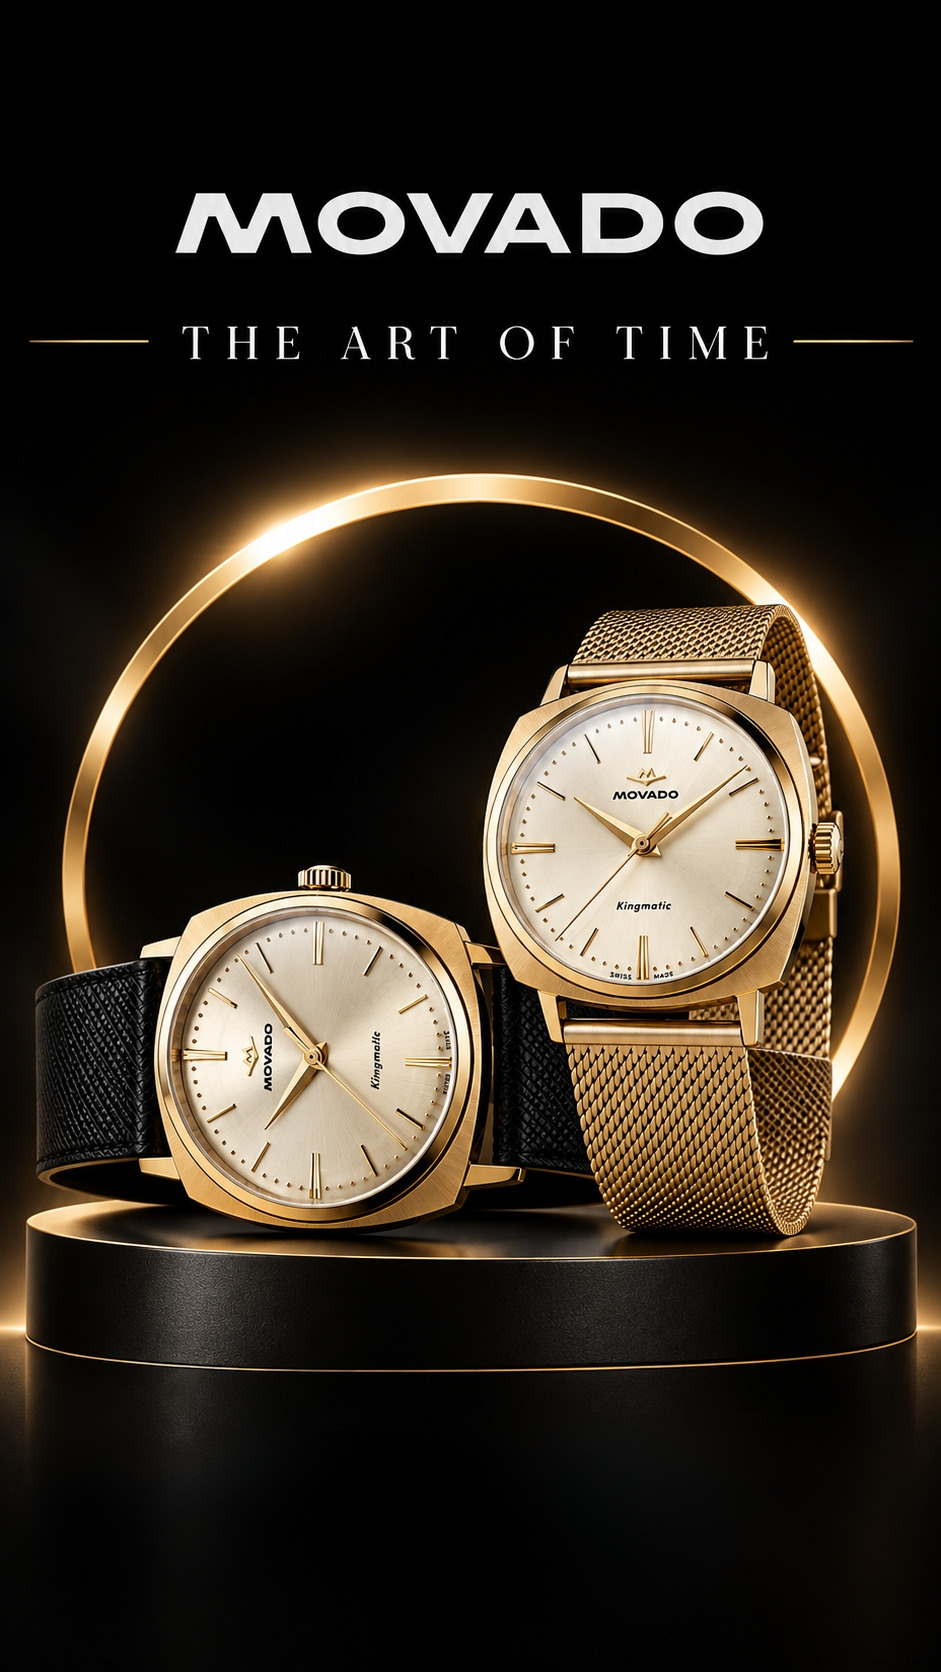
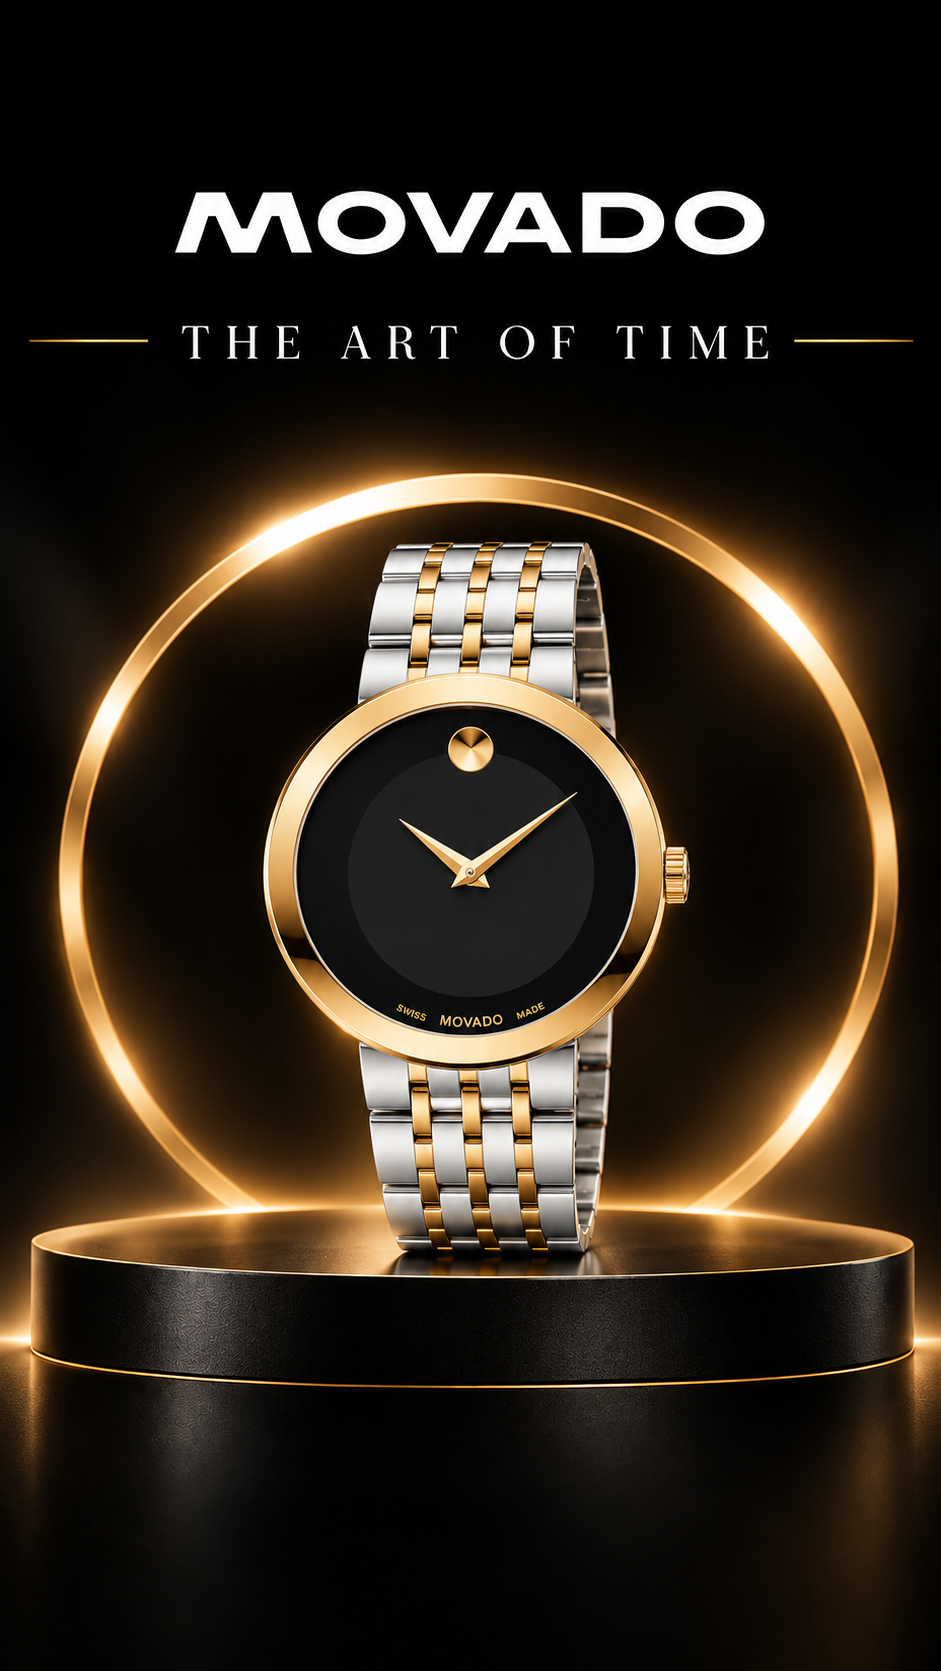
e

diff --git a/src/Component/Home/Herosection.jsx b/src/Component/Home/Herosection.jsx
@@ -12,7 +12,7 @@ import "swiper/css/effect-fade";
 // they are written out as strings.
 import banner1Web from "../../assets/Banner 1 v1.png";
 import banner1Mobile from "../../assets/Banner mobile layout v2.jpg.png";
-import movadoWeb from '../../assets/banner/Web Banner  (2).jpg.jpeg';
+import movadoWeb from '../../assets/banner/Web.png';
 import movadoMobile from '../../assets/banner/Web Banner Mob Layout 3.jpg.jpeg';
 // import banner3Mobile from "../../assets/banner/m layout 2.png";
 import tissotWeb from "../../assets/banner/Banner 1.jpg.jpeg";
